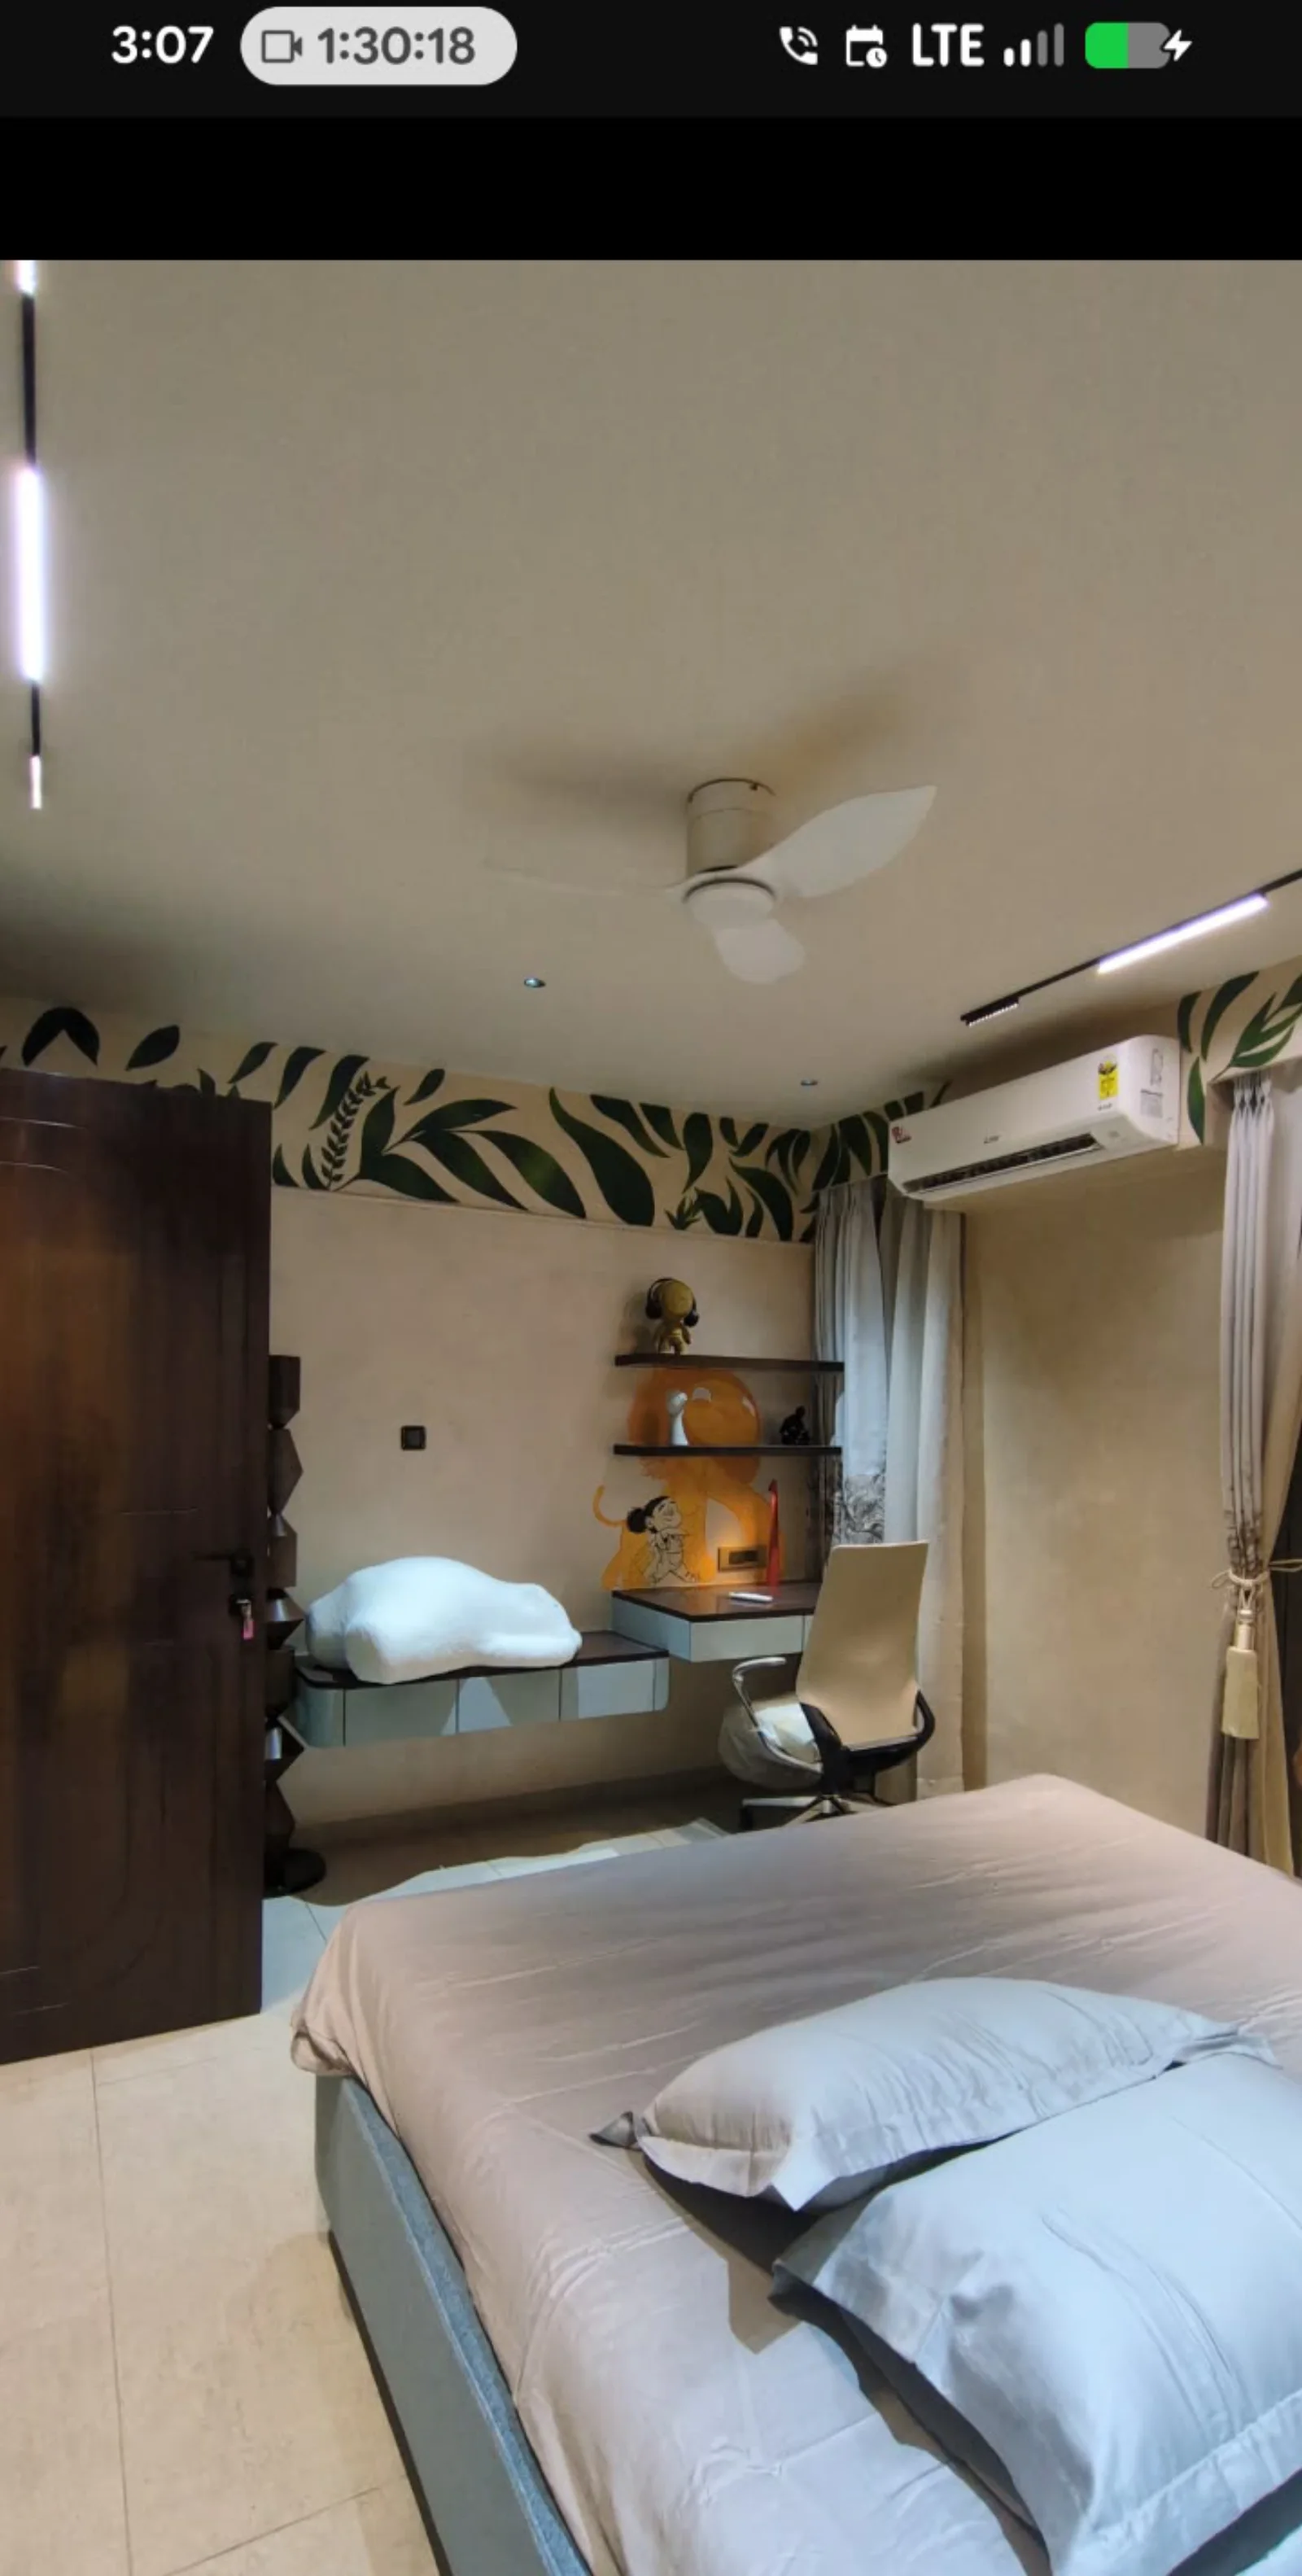
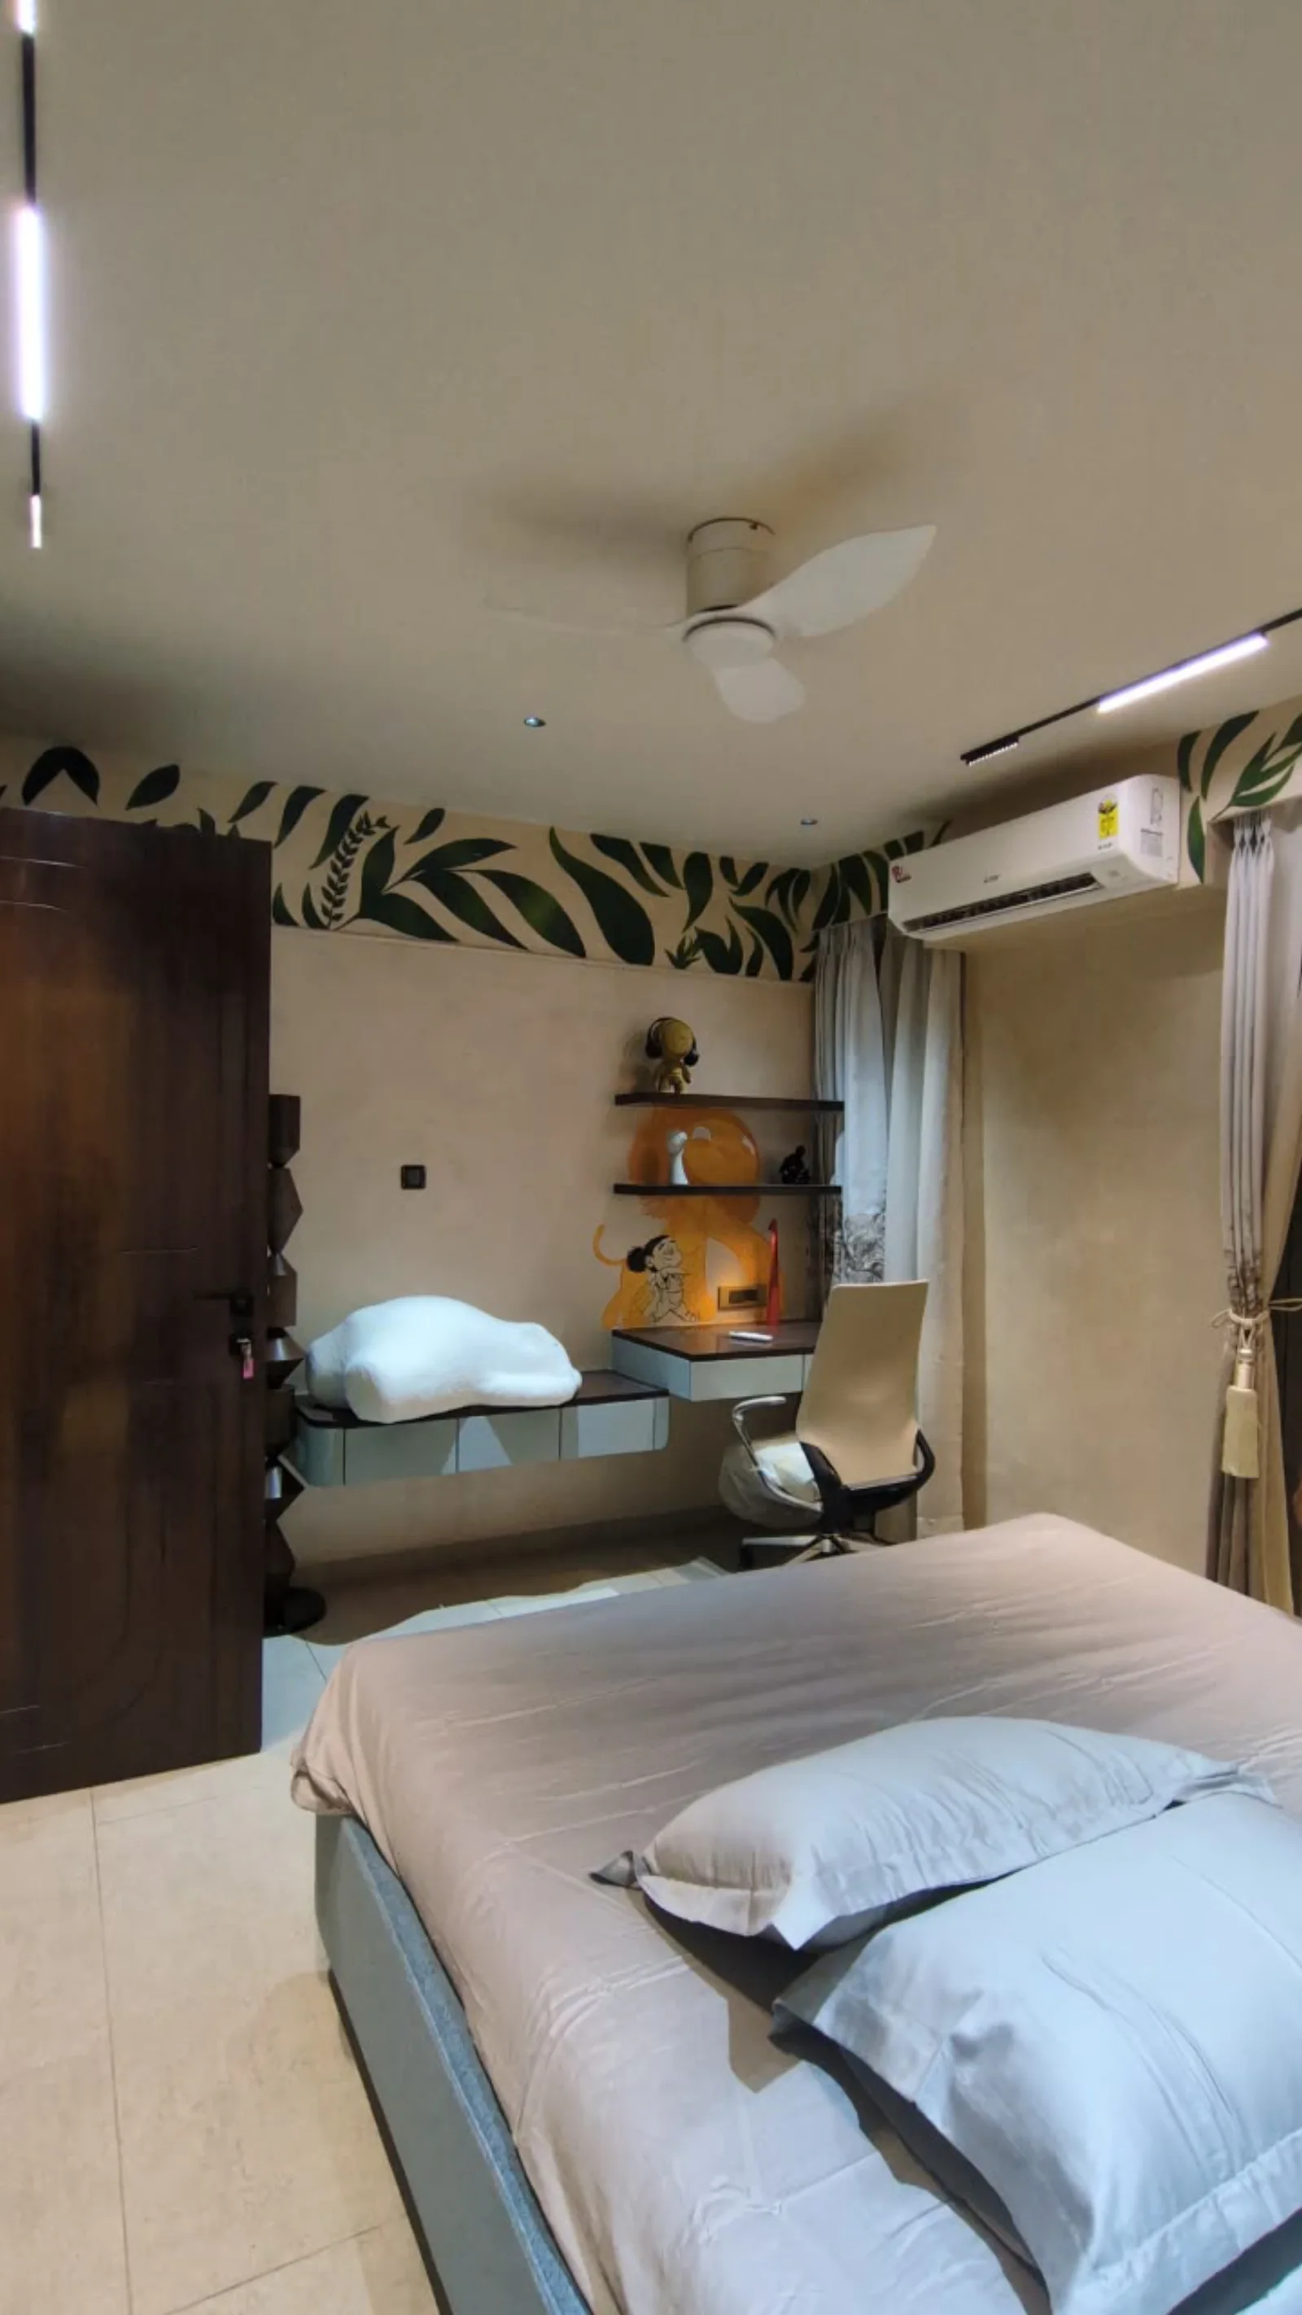
Commit the original photographs, strip phone status bars, file new images
Adds originals/ so the source photographs live in the repository rather
than only on one laptop. 88 files, 181 MB. The raw folders held 839 MB,
but 422 MB of that was a single aborted browser download and 236 MB was
the same photographs saved under different names; both are excluded and
those folders stay gitignored.

Several project photos were phone screenshots. The earlier crop removed
the solid black letterboxing but left the status bar, so the clock, LTE
and battery icons were visible on the live site. Cropping now finds the
largest continuously-lit band instead, which removes both.

Files the studio sent: the easel shot joins Workshops, a high-resolution
frame of the botanical headboard now leads A Room of Three Tales, and
three photographs of the finished, painted lily relief lead 3D Botanical
Flora Relief. The white plaster images already in that project are the
same wall part-sculpted, so the description now says so.

diff --git a/assets/js/data.js b/assets/js/data.js
@@ -56,7 +56,7 @@ window.PROJECTS = [
       {
         "s": "botanical-3d-2",
         "w": 800,
-        "h": 1733
+        "h": 1638
       },
       {
         "s": "botanical-3d-3",
@@ -105,7 +105,7 @@ window.PROJECTS = [
       {
         "s": "safari-study-1",
         "w": 800,
-        "h": 1583
+        "h": 1423
       },
       {
         "s": "safari-study-2",
@@ -115,7 +115,7 @@ window.PROJECTS = [
       {
         "s": "safari-study-3",
         "w": 800,
-        "h": 1582
+        "h": 1423
       },
       {
         "s": "safari-study-4",
@@ -174,8 +174,23 @@ window.PROJECTS = [
     "cat": [
       "relief"
     ],
-    "blurb": "A vertical feature wall of hand-sculpted tulips and bird motifs, each one hand-painted afterwards to bring up the colour. Built to give the room height and organic movement.",
+    "blurb": "A vertical feature wall of hand-sculpted lilies and bird motifs, each one hand-painted afterwards to bring up the colour, then lit from behind. Built to give the room height and organic movement. The later photographs show it part-sculpted, before painting.",
     "imgs": [
+      {
+        "s": "flora-relief-finished-1",
+        "w": 800,
+        "h": 1066
+      },
+      {
+        "s": "flora-relief-finished-2",
+        "w": 800,
+        "h": 1066
+      },
+      {
+        "s": "flora-relief-finished-3",
+        "w": 800,
+        "h": 1066
+      },
       {
         "s": "flora-relief-1",
         "w": 800,
@@ -381,6 +396,11 @@ window.PROJECTS = [
     ],
     "blurb": "Three walls in one home, each in a different register: a mural that blends wall painting with bird sculptures, a vibrant rust-orange abstract for the office area, and a semi-abstract floral piece for the TV unit.",
     "imgs": [
+      {
+        "s": "room-three-tales-bedback-hq",
+        "w": 800,
+        "h": 601
+      },
       {
         "s": "a-room-of-three-tales-1-bedback",
         "w": 800,
@@ -628,6 +648,11 @@ window.PROJECTS = [
         "s": "dsc01868",
         "w": 800,
         "h": 451
+      },
+      {
+        "s": "workshop-easel",
+        "w": 800,
+        "h": 629
       }
     ]
   }

diff --git a/index.html b/index.html
@@ -314,7 +314,7 @@
 <script src="https://cdn.jsdelivr.net/npm/lenis@1.1.13/dist/lenis.min.js" defer></script>
 <script src="https://cdn.jsdelivr.net/npm/gsap@3.12.5/dist/gsap.min.js" defer></script>
 <script src="https://cdn.jsdelivr.net/npm/gsap@3.12.5/dist/ScrollTrigger.min.js" defer></script>
-<script src="assets/js/data.js?v=6" defer></script>
-<script src="assets/js/site.js?v=6" defer></script>
+<script src="assets/js/data.js?v=7" defer></script>
+<script src="assets/js/site.js?v=7" defer></script>
 </body>
 </html>

diff --git a/work.html b/work.html
@@ -124,7 +124,7 @@
 </div>
 
 <script src="https://cdn.jsdelivr.net/npm/lenis@1.1.13/dist/lenis.min.js" defer></script>
-<script src="assets/js/data.js?v=6" defer></script>
-<script src="assets/js/site.js?v=6" defer></script>
+<script src="assets/js/data.js?v=7" defer></script>
+<script src="assets/js/site.js?v=7" defer></script>
 </body>
 </html>

diff --git a/about.html b/about.html
@@ -149,6 +149,6 @@
 </footer>
 
 <script src="https://cdn.jsdelivr.net/npm/lenis@1.1.13/dist/lenis.min.js" defer></script>
-<script src="assets/js/site.js?v=6" defer></script>
+<script src="assets/js/site.js?v=7" defer></script>
 </body>
 </html>

diff --git a/contact.html b/contact.html
@@ -172,6 +172,6 @@
 </footer>
 
 <script src="https://cdn.jsdelivr.net/npm/lenis@1.1.13/dist/lenis.min.js" defer></script>
-<script src="assets/js/site.js?v=6" defer></script>
+<script src="assets/js/site.js?v=7" defer></script>
 </body>
 </html>
